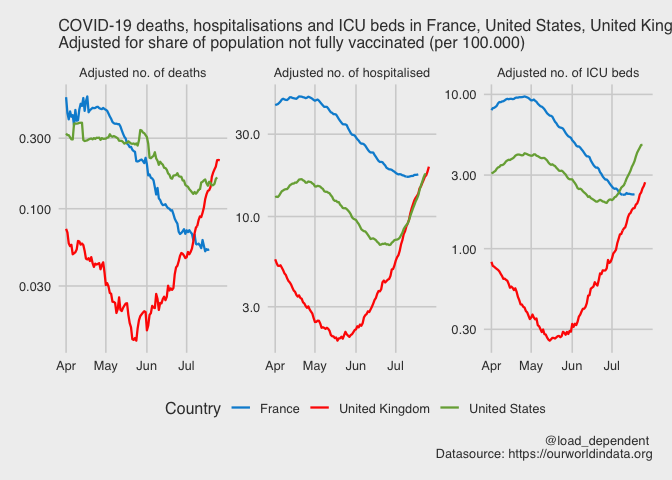
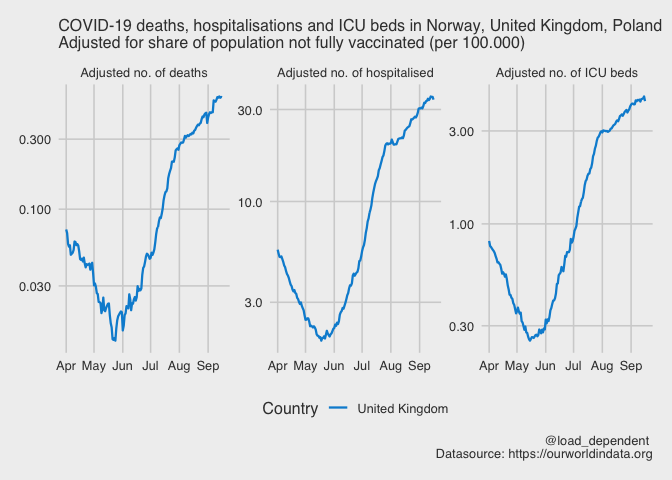
Sept update

diff --git a/README.md b/README.md
@@ -2,15 +2,15 @@ OWID COVID-19 data visualisation
 ================
 Lars Mølgaard Saxhaug <https://twitter.com/load_dependent>
 
-Last compiled on Thursday 29 July, 2021
+Last compiled on Monday 20 September, 2021
 
 #### Countries of interest:
 
-France, United States, United Kingdom
+Norway, United Kingdom, Poland
 
 #### Date range of interest
 
-From Thursday 01 April, 2021 to Thursday 29 July, 2021
+From Thursday 01 April, 2021 to Monday 20 September, 2021
 
 #### Adjusted deaths
 
@@ -20,9 +20,11 @@ From Thursday 01 April, 2021 to Thursday 29 July, 2021
 
 ![](README_files/figure-gfm/vaccinations-1.png)<!-- -->
 
+![](README_files/figure-gfm/vaccination_days-1.png)<!-- -->
+
 #### New cases adjusted for vaccination coverage
 
-![](README_files/figure-gfm/new%20cases-1.png)<!-- -->
+![](README_files/figure-gfm/new_cases-1.png)<!-- -->
 
 #### Cases, admissions and deaths
 
